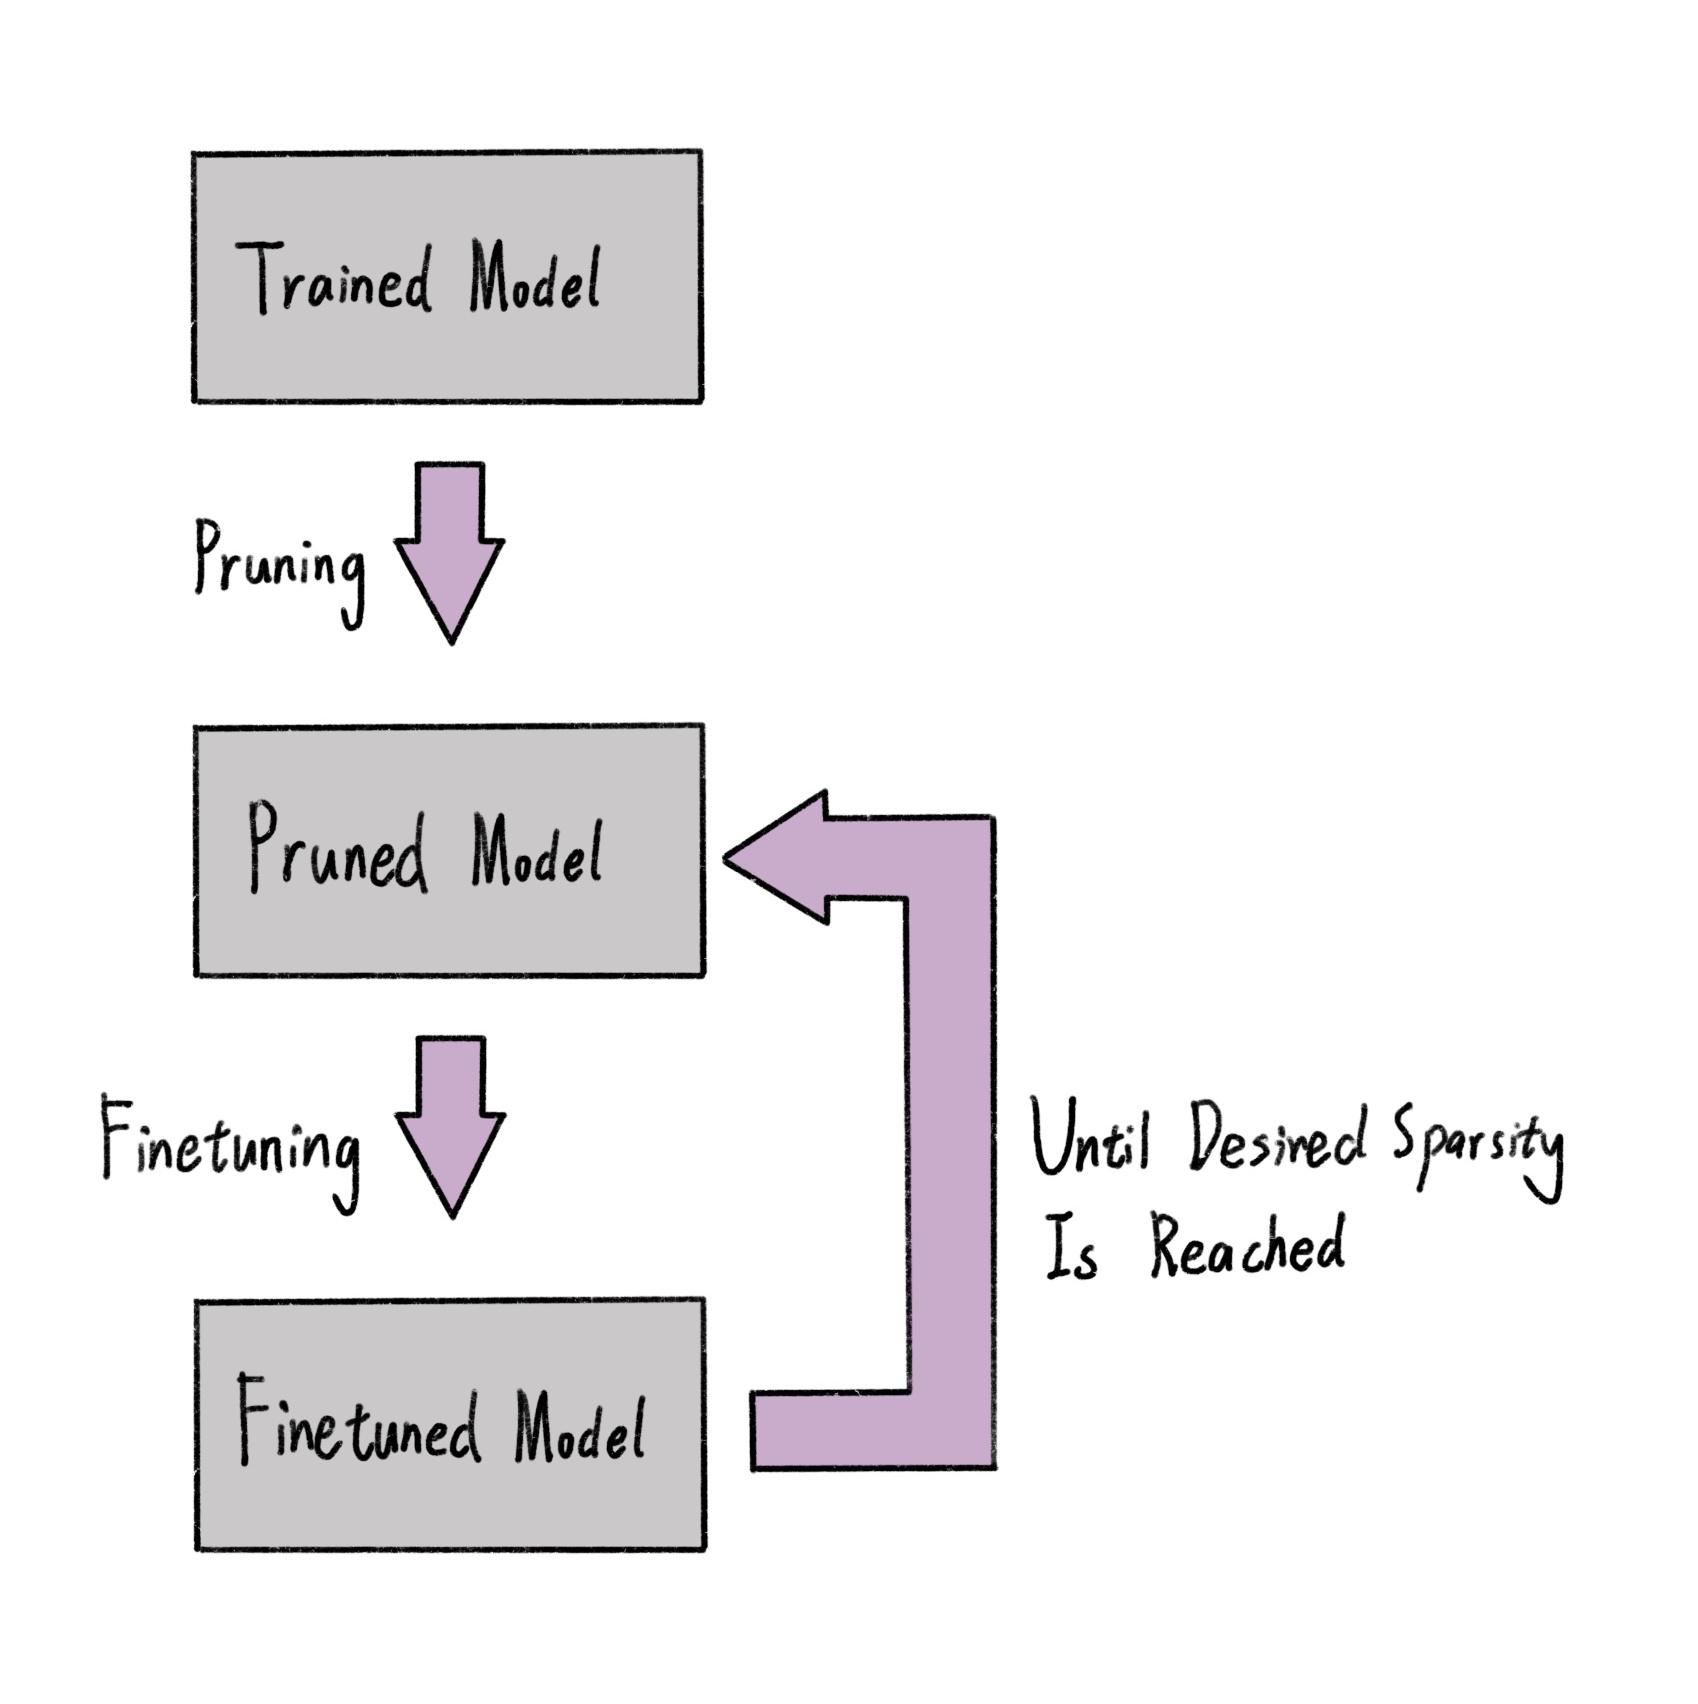
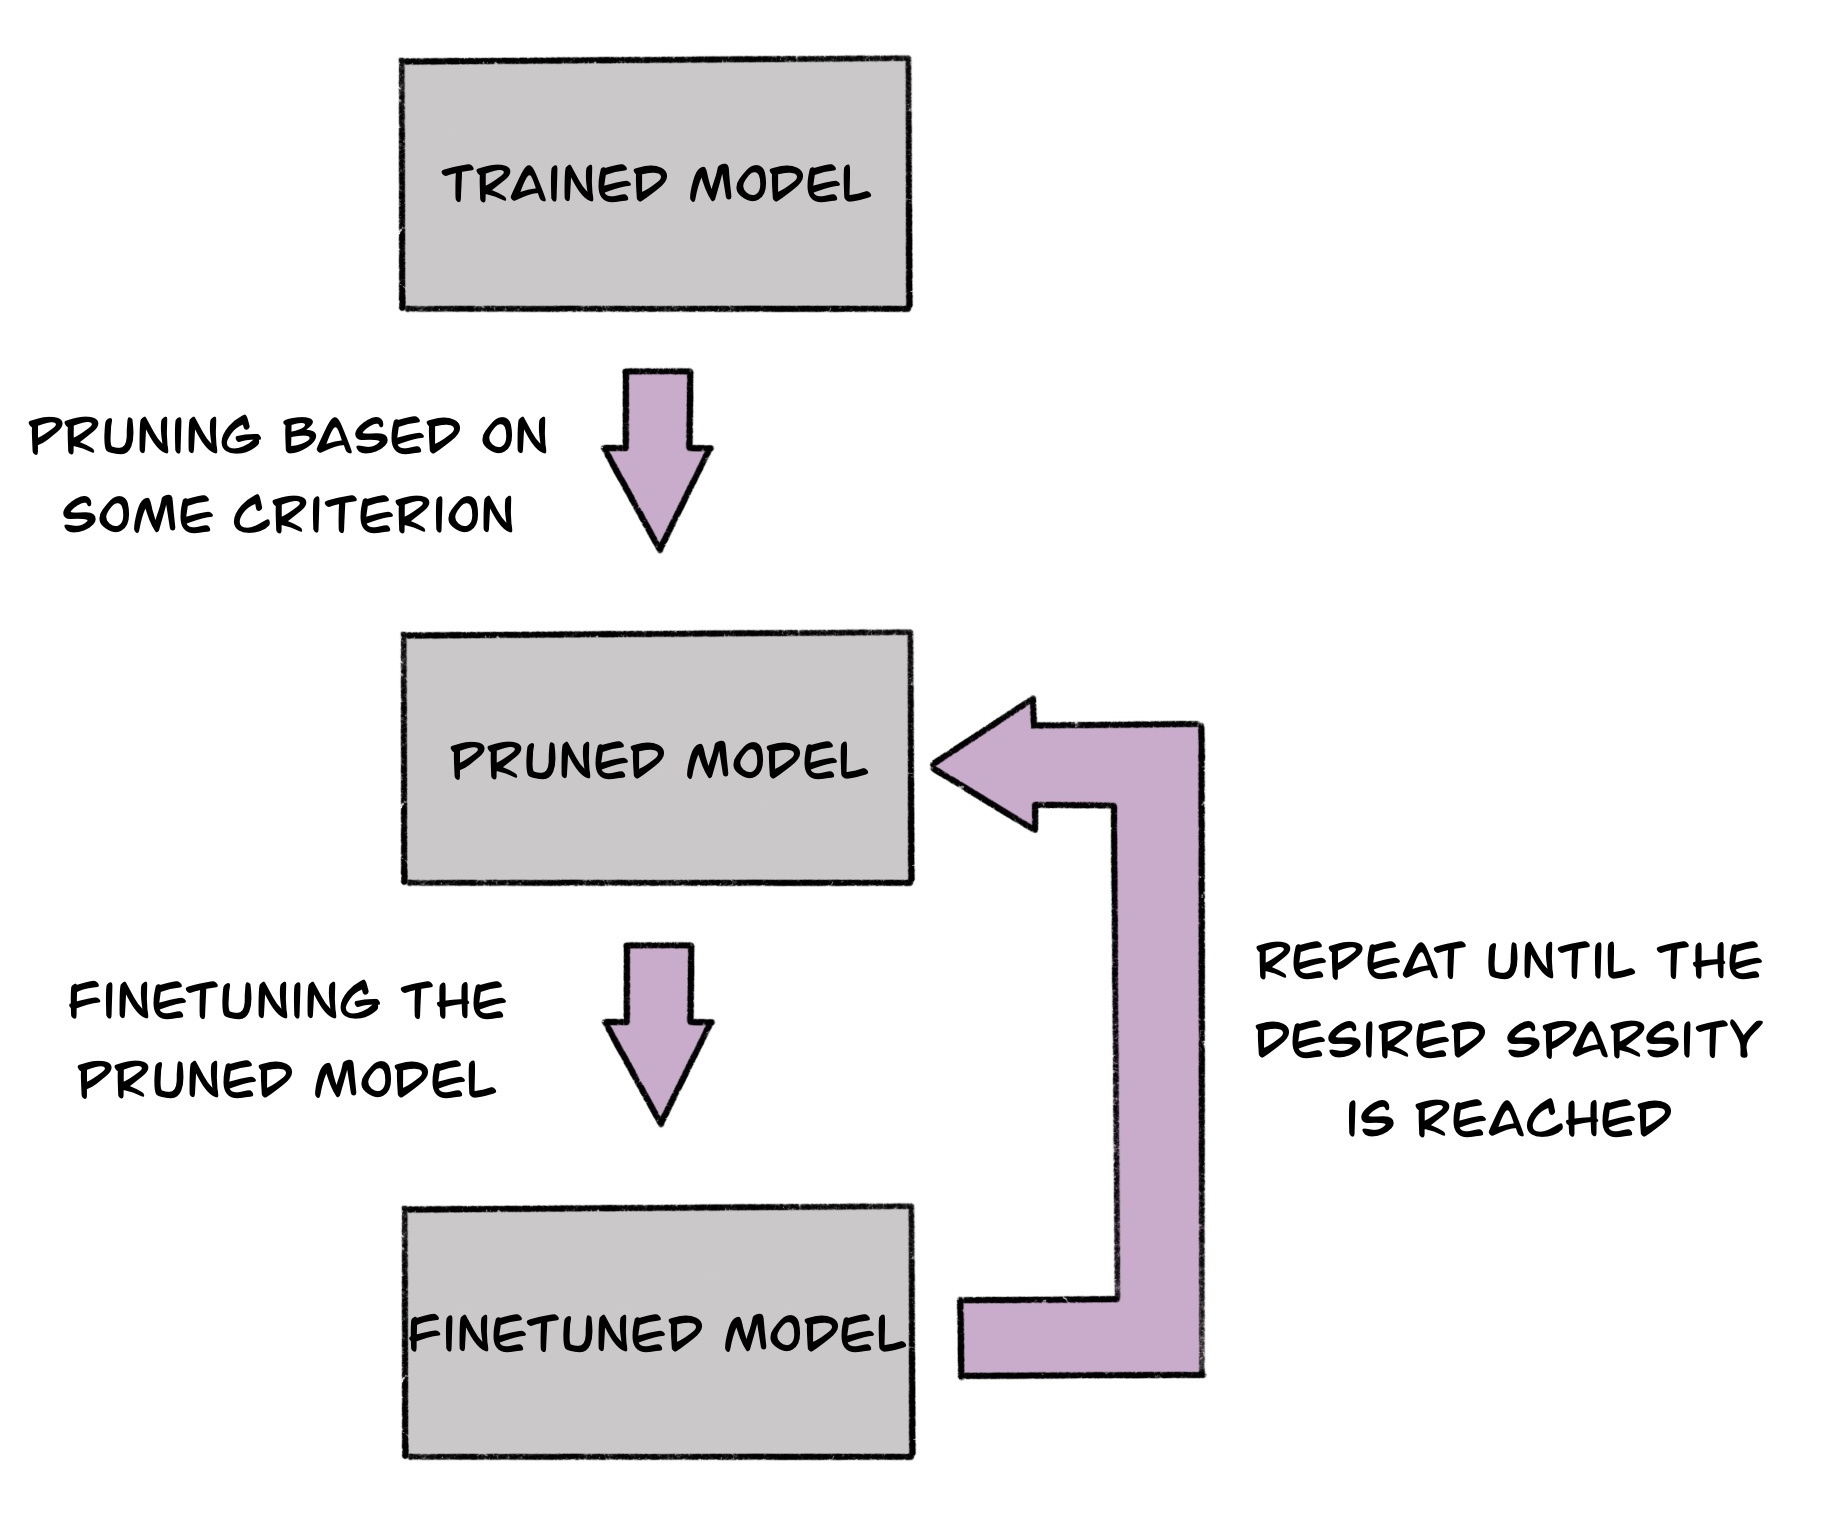
Updated.

Changed region(s): [[0.0312, 0.402, 0.9676, 0.9586], [0.0, 0.0309, 0.4994, 0.3711]]

diff --git a/_posts/2021-11-13-rewinding.md b/_posts/2021-11-13-rewinding.md
@@ -9,7 +9,7 @@ This blog post is about our thoughts on the topics mentioned by the ICLR paper [
 ## A Typical Pruning Pipeline
 The efficiency of neural network inference is of importance for both the research community and industry since it's critical for the real-world applications of deep learning. One of the early works ([Han, Song, et al.](#Han)) considers a simple yet effective way to prune an already trained neural network: Set all the weights whose magnitude is under a certain threshold to zero and fine-tune the resulting network. Intuitively, the weights that are close to zero have less impact on the overall performance of the network, thus removing them would only cause a small drop in accuracy, which will them be remedied with fine tuning. It is also showed that doing this pruning step for multiple times instead of pruning directly to the desired sparsity can increase the resulting accuracy as well. So in summary, a typical pruning pipeline would look like:
 ![Pipeline]({{site.url}}/public/images/pipeline.jpg)
-Since then, many following works, for example, [Molchanov, P., et al.](#Molchanov), explores different ways to improve the pruning step in this pipeline. Instead of globally pruning based solely on the magnitude of weights, it's possible to achieve better results by considering better criterions to choose the connections to remove. For example, we can approximate the change to the loss function incurred by settign a weight to zero by Taylor series. However, this paper shows us that the finetuning step, which seems to be a standard procedure, can also be replaced with more advanced techniques.
+Since then, many following works, for example, [Molchanov, P., et al.](#Molchanov), explores different ways to improve the pruning step in this pipeline. Instead of global pruning based solely on the magnitude of weights, it's possible to achieve better results by considering better criterions to choose the connections to remove. For example, we can approximate the change to the loss function incurred by setting a weight to zero by Taylor series. However, this paper shows us that the finetuning step, which seems to be a standard procedure, can also be replaced with more advanced techniques.
 ## The Lottery Ticket Hypothesis
 Before we dive into the alternatives of finetuning, we would like to first talk about the lottery ticket hypothesis ([Frankle, Jonathan, and Michael Carbin.](#Frankle)). The lottery ticket hypothesis claims that a random initialized neural network contains a sparse subnet which can be trained from scratch to reach test accruacy simliar to the full network. The way to identify this sub-net is quite simliar to the pruning pipeline. A model is trained and pruned. However, then the surviving weights are rewound to their initilazation to get the winning ticket. Then this subnet can be trained to verify the hypothesis.
 ## References
